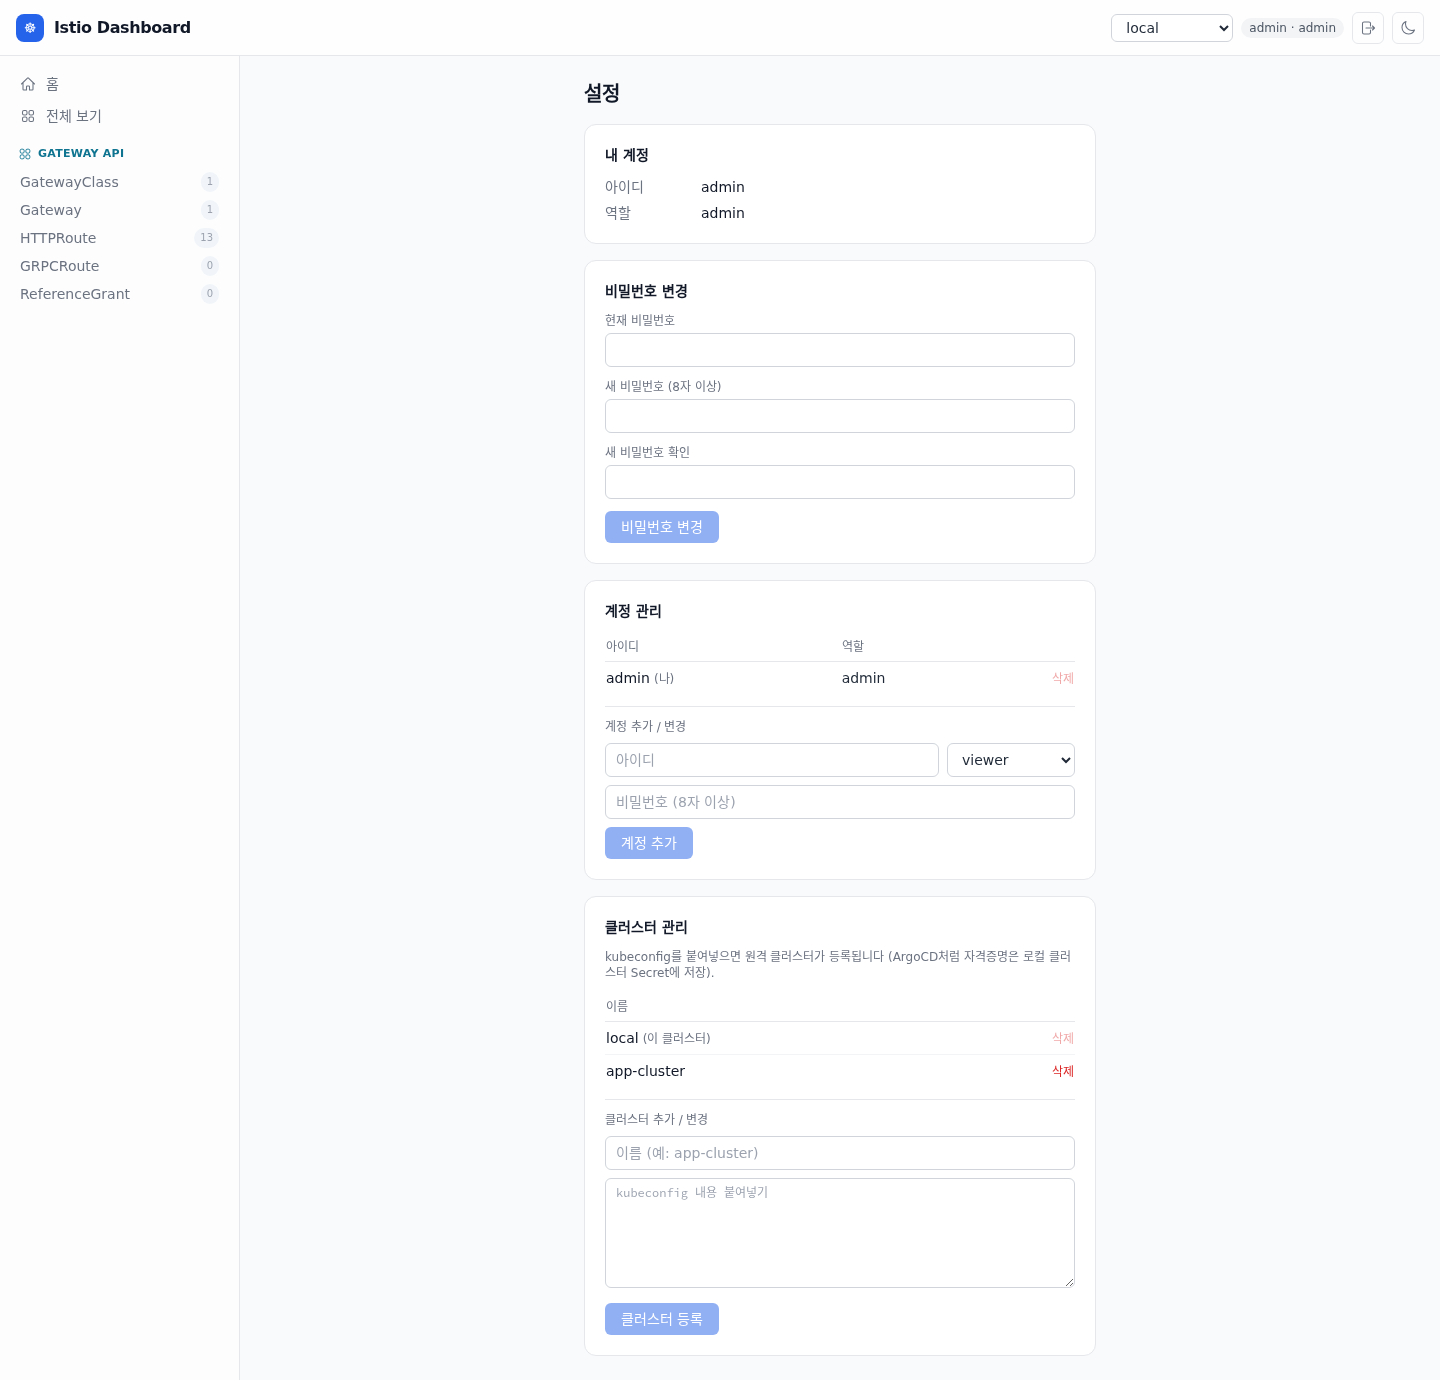
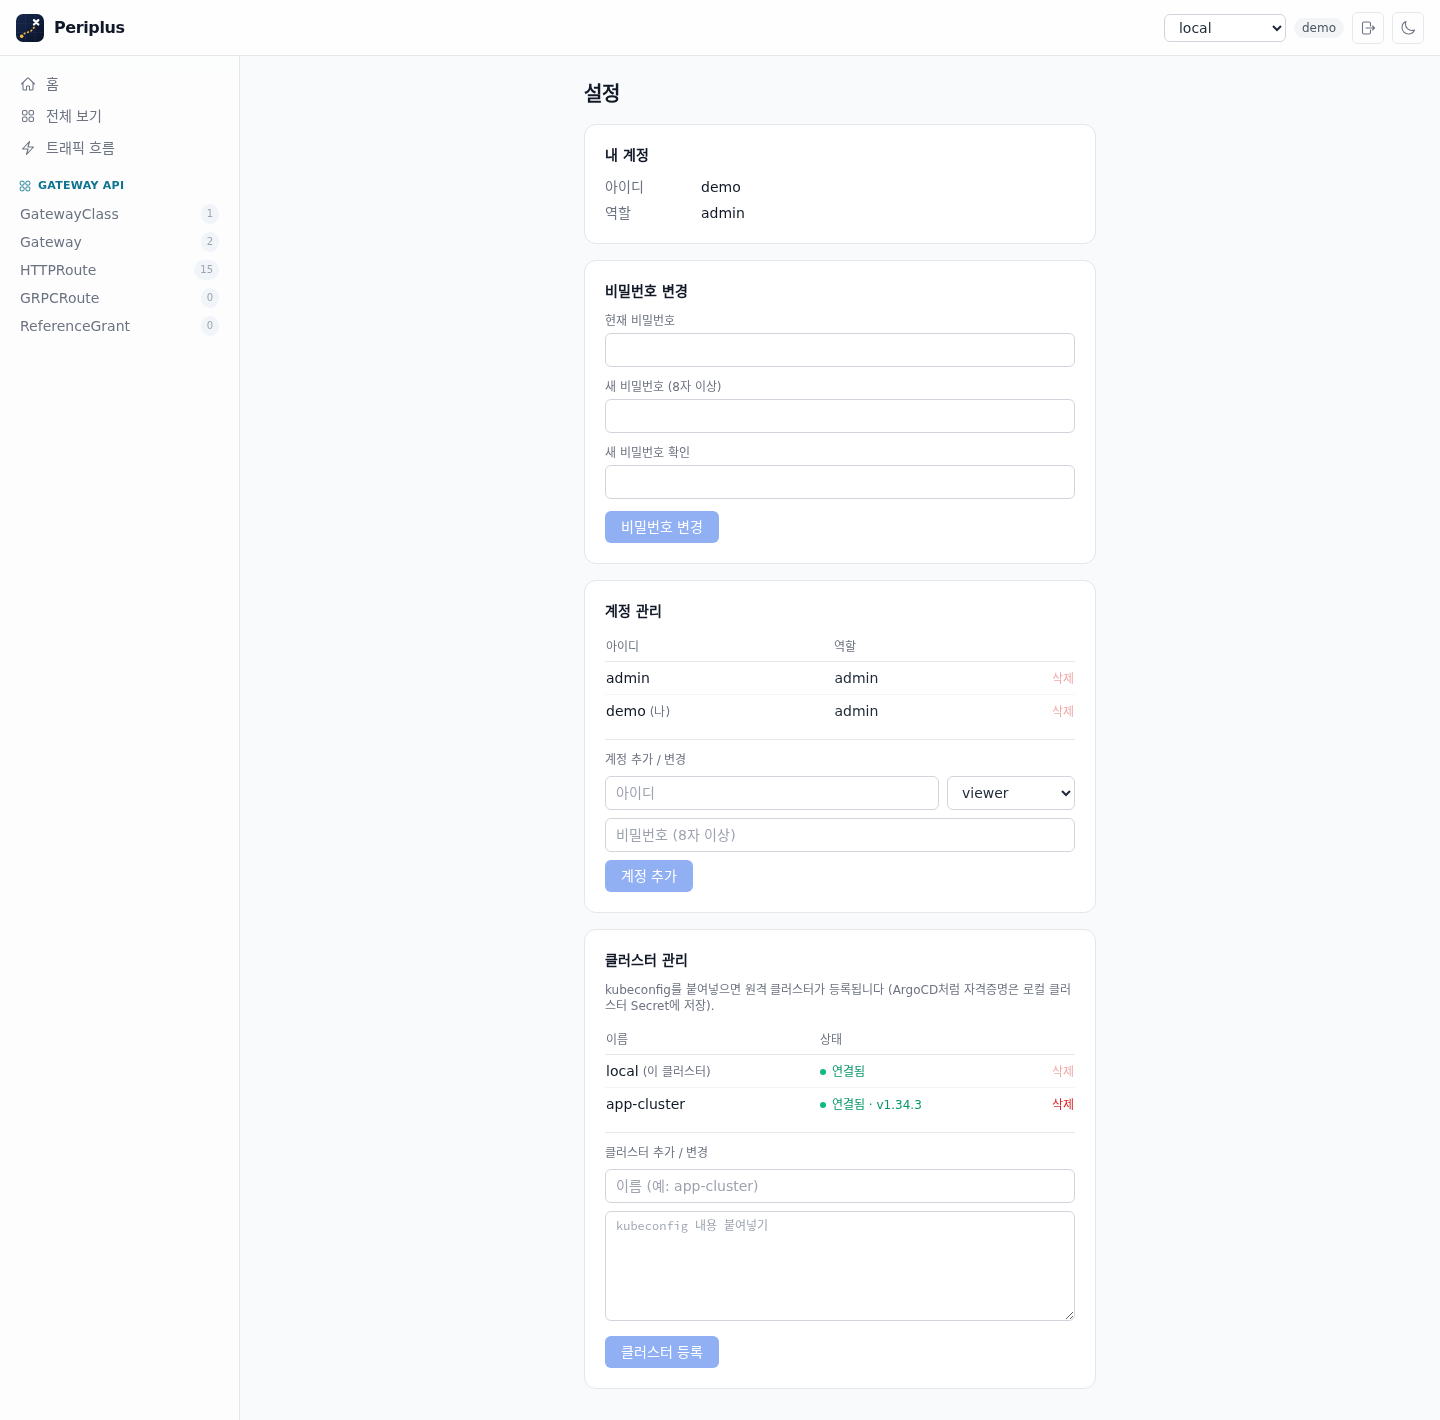
프로젝트를 Periplus로 리네임
- Go 모듈 istio-dashboard → periplus, 세션 쿠키 periplus_session
- UI 브랜드(타이틀/로고), 파비콘을 항로+X 마크로 임시 교체 (시안 확정 시 갱신)
- Helm 차트명 periplus (release=chart면 fullname 스터터 방지), 기본 CM/Secret
  이름 periplus-accounts/-clusters, 마운트 경로 /etc/periplus/accounts
- release.yml 이미지·차트 발행 경로 ghcr.io/<owner>/periplus, charts/periplus
- README ko/en 재작성: Periplus 명명 유래, CNCF 비제휴 disclaimer, 새 설치 경로,
  스크린샷 전면 교체 (chart 0.4.0)

diff --git a/web/src/pages/Login.tsx b/web/src/pages/Login.tsx
@@ -1,7 +1,7 @@
 import { useState } from 'react'
 import { ApiError, apiPost } from '../api/client'
 
-// ArgoCD 방식 로컬 계정 로그인. 계정은 istio-dashboard-accounts ConfigMap에서
+// ArgoCD 방식 로컬 계정 로그인. 계정은 periplus-accounts ConfigMap에서
 // 관리한다 (한 키 = 한 사용자, 값 = "role:bcryptHash"). 세션은 HttpOnly 쿠키.
 export function Login() {
   const [username, setUsername] = useState('')
@@ -27,8 +27,8 @@ export function Login() {
     <div className="flex min-h-screen items-center justify-center bg-gray-50 p-4 dark:bg-slate-950">
       <form onSubmit={submit} className="w-full max-w-sm rounded-lg border border-base bg-white p-8 shadow-sm dark:bg-slate-900">
         <div className="mb-1 flex items-center gap-2.5">
-          <span className="flex h-7 w-7 items-center justify-center rounded-lg bg-accent text-sm font-bold text-white">☸</span>
-          <h1 className="text-lg font-semibold text-strong">Istio Dashboard</h1>
+          <img src="/favicon.svg" alt="" className="h-7 w-7" />
+          <h1 className="text-lg font-semibold text-strong">Periplus</h1>
         </div>
         <p className="mb-4 text-sm text-muted">계정으로 로그인하세요.</p>
         <label className="mb-3 block">
@@ -44,7 +44,7 @@ export function Login() {
           {busy ? '로그인 중…' : '로그인'}
         </button>
         <p className="mt-4 text-xs text-muted">
-          계정 추가/변경은 관리자가 <code className="rounded bg-gray-100 px-1 dark:bg-slate-800">istio-dashboard-accounts</code> ConfigMap으로 관리합니다.
+          계정 추가/변경은 관리자가 <code className="rounded bg-gray-100 px-1 dark:bg-slate-800">periplus-accounts</code> ConfigMap으로 관리합니다.
         </p>
       </form>
     </div>

diff --git a/web/src/components/Layout.tsx b/web/src/components/Layout.tsx
@@ -21,8 +21,8 @@ export function Layout({ children }: { children: ReactNode }) {
     <div className="flex h-screen flex-col">
       <header className="flex h-14 items-center gap-3 border-b border-base bg-white/80 px-4 backdrop-blur-md dark:bg-slate-950/80">
         <Link to="/" className="flex items-center gap-2.5 rounded-md py-0.5 hover:opacity-80" title="홈으로">
-          <span className="flex h-7 w-7 items-center justify-center rounded-lg bg-accent text-sm font-bold text-white">☸</span>
-          <h1 className="text-base font-semibold tracking-tight text-strong">Istio Dashboard</h1>
+          <img src="/favicon.svg" alt="" className="h-7 w-7" />
+          <h1 className="text-base font-semibold tracking-tight text-strong">Periplus</h1>
         </Link>
 
         {/* no global namespace selector — Overview/ResourceList carry their own

diff --git a/internal/assets/dist/index.html b/internal/assets/dist/index.html
@@ -4,10 +4,10 @@
     <meta charset="UTF-8" />
     <meta name="viewport" content="width=device-width, initial-scale=1.0" />
     <link rel="icon" type="image/svg+xml" href="/favicon.svg" />
-    <title>Istio Dashboard</title>
+    <title>Periplus</title>
     <!-- 페인트 전에 저장된 테마 적용 (CSP script-src 'self' 유지를 위해 외부 파일) -->
     <script src="/theme-init.js"></script>
-    <script type="module" crossorigin src="/assets/index-B7mAlBFM.js"></script>
+    <script type="module" crossorigin src="/assets/index-WbVRrTQL.js"></script>
     <link rel="stylesheet" crossorigin href="/assets/index-Dv9l5nyB.css">
   </head>
   <body>

diff --git a/web/src/pages/Home.tsx b/web/src/pages/Home.tsx
@@ -39,7 +39,7 @@ export function Home() {
     <div className="mx-auto max-w-6xl space-y-6">
       <div className="flex flex-wrap items-end justify-between gap-3">
         <div>
-          <h1 className="text-2xl font-bold tracking-tight text-strong">Istio Dashboard</h1>
+          <h1 className="text-2xl font-bold tracking-tight text-strong">Periplus</h1>
           <p className="mt-1 text-sm text-muted">트래픽·보안·텔레메트리 설정을 폼 또는 YAML로 안전하게 관리하세요.</p>
         </div>
         <div className="flex flex-wrap gap-2">

diff --git a/web/src/pages/Settings.tsx b/web/src/pages/Settings.tsx
@@ -71,7 +71,7 @@ export function Settings() {
       ) : (
         <p className="text-xs text-muted">
           계정 추가/삭제·역할 변경은 관리자가 설정 페이지 또는{' '}
-          <code className="rounded bg-gray-100 px-1 dark:bg-slate-800">istio-dashboard-accounts</code> ConfigMap으로 관리합니다.
+          <code className="rounded bg-gray-100 px-1 dark:bg-slate-800">periplus-accounts</code> ConfigMap으로 관리합니다.
         </p>
       )}
     </div>

diff --git a/web/index.html b/web/index.html
@@ -4,7 +4,7 @@
     <meta charset="UTF-8" />
     <meta name="viewport" content="width=device-width, initial-scale=1.0" />
     <link rel="icon" type="image/svg+xml" href="/favicon.svg" />
-    <title>Istio Dashboard</title>
+    <title>Periplus</title>
     <!-- 페인트 전에 저장된 테마 적용 (CSP script-src 'self' 유지를 위해 외부 파일) -->
     <script src="/theme-init.js"></script>
   </head>

diff --git a/internal/api/server_test.go b/internal/api/server_test.go
@@ -31,8 +31,8 @@ import (
 	gwapi "sigs.k8s.io/gateway-api/apis/v1"
 	gwfake "sigs.k8s.io/gateway-api/pkg/client/clientset/versioned/fake"
 
-	"istio-dashboard/internal/auth"
-	"istio-dashboard/internal/k8s"
+	"periplus/internal/auth"
+	"periplus/internal/k8s"
 )
 
 var vsGVR = schema.GroupVersionResource{Group: "networking.istio.io", Version: "v1", Resource: "virtualservices"}
@@ -85,7 +85,7 @@ func authedReq(method, path string, body *strings.Reader) *http.Request {
 		r = httptest.NewRequest(method, path, body)
 	}
 	r.AddCookie(&http.Cookie{
-		Name:  "istio_dash_session",
+		Name:  "periplus_session",
 		Value: testSessions.Sign(auth.Identity{Name: "tester", Role: "editor"}, time.Hour),
 	})
 	return r
@@ -130,7 +130,7 @@ func TestWithAuth_BadCookieIs401(t *testing.T) {
 
 	rec := httptest.NewRecorder()
 	req := httptest.NewRequest("GET", "/api/resourceTypes", nil)
-	req.AddCookie(&http.Cookie{Name: "istio_dash_session", Value: "dGVzdGVy|admin|9999999999|forged"})
+	req.AddCookie(&http.Cookie{Name: "periplus_session", Value: "dGVzdGVy|admin|9999999999|forged"})
 	mux.ServeHTTP(rec, req)
 	if rec.Code != http.StatusUnauthorized {
 		t.Fatalf("status = %d, want 401", rec.Code)
@@ -144,7 +144,7 @@ func TestWithAuth_ViewerWriteIs403(t *testing.T) {
 	rec := httptest.NewRecorder()
 	req := httptest.NewRequest("POST", "/api/resources/"+vsTypeID, strings.NewReader(vsBody))
 	req.AddCookie(&http.Cookie{
-		Name:  "istio_dash_session",
+		Name:  "periplus_session",
 		Value: testSessions.Sign(auth.Identity{Name: "ro", Role: "viewer"}, time.Hour),
 	})
 	mux.ServeHTTP(rec, req)
@@ -331,7 +331,7 @@ func TestPasswordChange_RoundTrip(t *testing.T) {
 	NewServer(false, &stubSource{clients: &k8s.Clients{Kube: kube}},
 		auth.NewStore(dir), testSessions, AccountsCMRef{Namespace: "ns1", Name: "accounts"}, ClustersSecretRef{Namespace: "ns1", Name: "clusters"}).Routes(mux)
 	cookie := &http.Cookie{
-		Name:  "istio_dash_session",
+		Name:  "periplus_session",
 		Value: testSessions.Sign(auth.Identity{Name: "alice", Role: "viewer"}, time.Hour),
 	}
 
@@ -375,7 +375,7 @@ func TestAccountsAPI_RoundTrip(t *testing.T) {
 	NewServer(false, &stubSource{clients: &k8s.Clients{Kube: kube}},
 		auth.NewStore(t.TempDir()), testSessions, AccountsCMRef{Namespace: "ns1", Name: "accounts"}, ClustersSecretRef{Namespace: "ns1", Name: "clusters"}).Routes(mux)
 	adminCookie := &http.Cookie{
-		Name:  "istio_dash_session",
+		Name:  "periplus_session",
 		Value: testSessions.Sign(auth.Identity{Name: "admin", Role: "admin"}, time.Hour),
 	}
 	do := func(method, path, body string, cookie *http.Cookie) *httptest.ResponseRecorder {
@@ -388,7 +388,7 @@ func TestAccountsAPI_RoundTrip(t *testing.T) {
 
 	// editor may not manage accounts
 	editorCookie := &http.Cookie{
-		Name:  "istio_dash_session",
+		Name:  "periplus_session",
 		Value: testSessions.Sign(auth.Identity{Name: "tester", Role: "editor"}, time.Hour),
 	}
 	if rec := do("GET", "/api/accounts", "", editorCookie); rec.Code != http.StatusForbidden {
@@ -425,7 +425,7 @@ func TestAccountsAPI_RoundTrip(t *testing.T) {
 		t.Fatalf("self-delete: status = %d, want 400", rec.Code)
 	}
 	rootCookie := &http.Cookie{
-		Name:  "istio_dash_session",
+		Name:  "periplus_session",
 		Value: testSessions.Sign(auth.Identity{Name: "root", Role: "admin"}, time.Hour),
 	}
 	if rec := do("DELETE", "/api/accounts/admin", "", rootCookie); rec.Code != http.StatusBadRequest {
@@ -477,7 +477,7 @@ func TestClustersAPI_RoundTrip(t *testing.T) {
 	NewServer(false, &stubSource{clients: &k8s.Clients{Kube: kube}},
 		auth.NewStore(t.TempDir()), testSessions, AccountsCMRef{}, ClustersSecretRef{Namespace: "ns1", Name: "clusters"}).Routes(mux)
 	adminCookie := &http.Cookie{
-		Name:  "istio_dash_session",
+		Name:  "periplus_session",
 		Value: testSessions.Sign(auth.Identity{Name: "admin", Role: "admin"}, time.Hour),
 	}
 	do := func(method, path, body string, cookie *http.Cookie) *httptest.ResponseRecorder {
@@ -494,7 +494,7 @@ func TestClustersAPI_RoundTrip(t *testing.T) {
 		return rec
 	}
 	editorCookie := &http.Cookie{
-		Name:  "istio_dash_session",
+		Name:  "periplus_session",
 		Value: testSessions.Sign(auth.Identity{Name: "bob", Role: "editor"}, time.Hour),
 	}
 	kubeconfig := `apiVersion: v1
@@ -689,7 +689,7 @@ func TestMustChangePassword_RoundTrip(t *testing.T) {
 	NewServer(false, &stubSource{clients: &k8s.Clients{Kube: kube}},
 		auth.NewStore(dir), testSessions, AccountsCMRef{Namespace: "ns1", Name: "accounts"}, ClustersSecretRef{}).Routes(mux)
 	cookie := &http.Cookie{
-		Name:  "istio_dash_session",
+		Name:  "periplus_session",
 		Value: testSessions.Sign(auth.Identity{Name: "admin", Role: "admin"}, time.Hour),
 	}
 	caps := func() string {
@@ -729,7 +729,7 @@ func TestClustersList_Status(t *testing.T) {
 		auth.NewStore(t.TempDir()), testSessions, AccountsCMRef{}, ClustersSecretRef{Namespace: "ns1", Name: "clusters"}).Routes(mux)
 	req := httptest.NewRequest("GET", "/api/clusters?status=true", nil)
 	req.AddCookie(&http.Cookie{
-		Name:  "istio_dash_session",
+		Name:  "periplus_session",
 		Value: testSessions.Sign(auth.Identity{Name: "bob", Role: "viewer"}, time.Hour),
 	})
 	rec := httptest.NewRecorder()

diff --git a/cmd/server/main.go b/cmd/server/main.go
@@ -1,4 +1,4 @@
-// Command server runs the Istio Routing Dashboard: a single binary serving the
+// Command server runs Periplus — a dashboard for Istio · Gateway API: a single binary serving the
 // embedded React SPA and a JSON API over the Kubernetes API (HTTPRoute/VirtualService).
 package main
 
@@ -13,11 +13,11 @@ import (
 	"syscall"
 	"time"
 
-	"istio-dashboard/internal/api"
-	"istio-dashboard/internal/assets"
-	"istio-dashboard/internal/auth"
-	"istio-dashboard/internal/k8s"
-	"istio-dashboard/internal/observability"
+	"periplus/internal/api"
+	"periplus/internal/assets"
+	"periplus/internal/auth"
+	"periplus/internal/k8s"
+	"periplus/internal/observability"
 )
 
 func main() {
@@ -46,7 +46,7 @@ func main() {
 	// per-boot random key (restart = re-login).
 	accountsDir := os.Getenv("ACCOUNTS_DIR")
 	if accountsDir == "" {
-		accountsDir = "/etc/istio-dashboard/accounts"
+		accountsDir = "/etc/periplus/accounts"
 	}
 	if !*dev {
 		if _, err := os.Stat(accountsDir); err != nil {

diff --git a/internal/api/flowmap.go b/internal/api/flowmap.go
@@ -9,7 +9,7 @@ import (
 	istioapi "istio.io/api/networking/v1"
 	metav1 "k8s.io/apimachinery/pkg/apis/meta/v1"
 
-	"istio-dashboard/internal/k8s"
+	"periplus/internal/k8s"
 )
 
 // 설정 기반 인그레스 트래픽 흐름도: Gateway → Route(VS/HTTPRoute) → Service.

diff --git a/internal/api/context.go b/internal/api/context.go
@@ -3,8 +3,8 @@ package api
 import (
 	"context"
 
-	"istio-dashboard/internal/auth"
-	"istio-dashboard/internal/k8s"
+	"periplus/internal/auth"
+	"periplus/internal/k8s"
 )
 
 // Per-request values injected by withK8s so handlers never touch auth/client

diff --git a/internal/api/clusters.go b/internal/api/clusters.go
@@ -14,7 +14,7 @@ import (
 	metav1 "k8s.io/apimachinery/pkg/apis/meta/v1"
 	"k8s.io/apimachinery/pkg/types"
 
-	"istio-dashboard/internal/k8s"
+	"periplus/internal/k8s"
 )
 
 // ClustersSecretRef locates the Secret holding remote-cluster kubeconfigs

diff --git a/internal/api/server.go b/internal/api/server.go
@@ -6,8 +6,8 @@ import (
 	"net/http"
 	"sync"
 
-	"istio-dashboard/internal/auth"
-	"istio-dashboard/internal/k8s"
+	"periplus/internal/auth"
+	"periplus/internal/k8s"
 )
 
 // ClientSource is the k8s.ClientFactory surface the handlers depend on,
